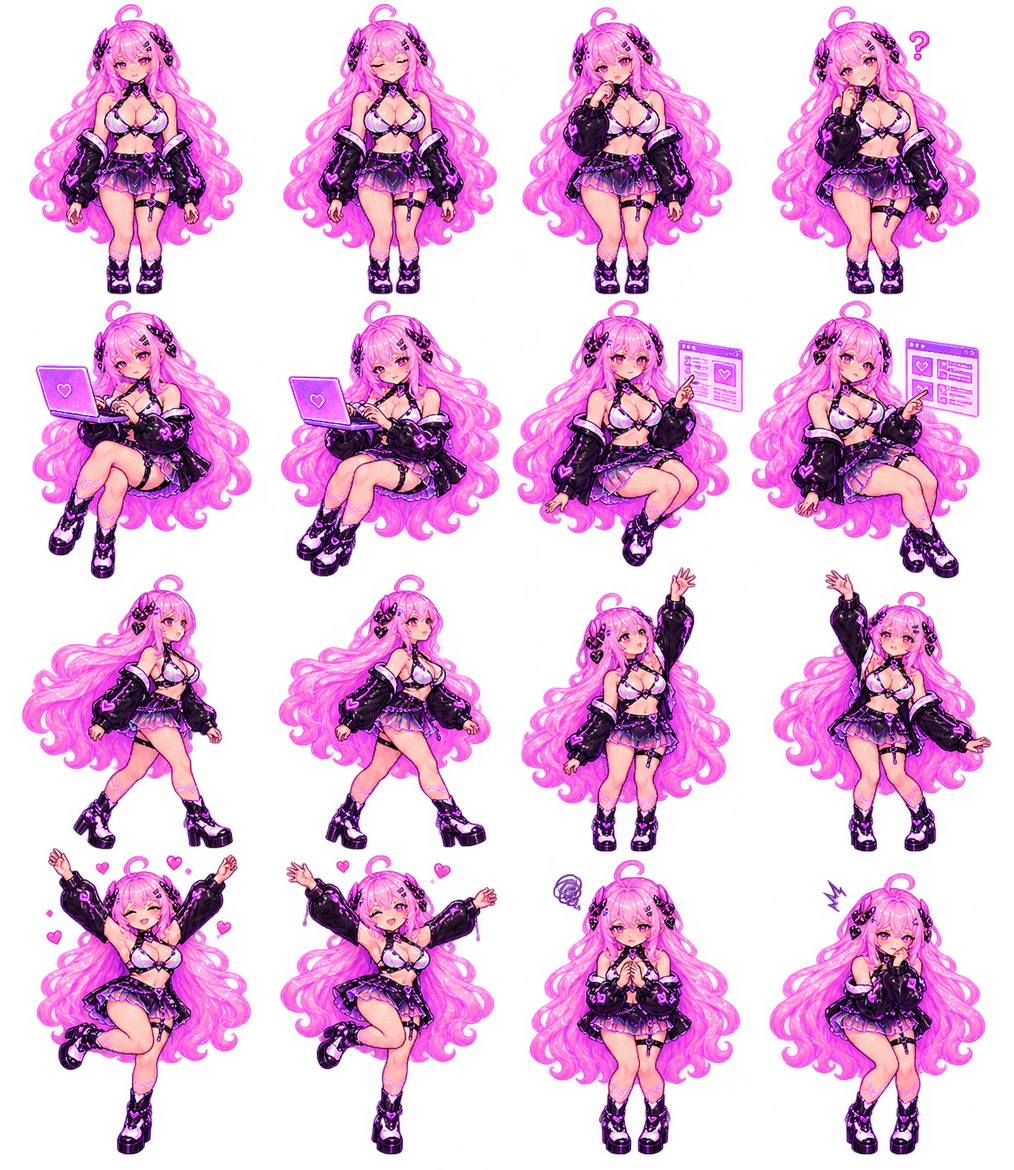
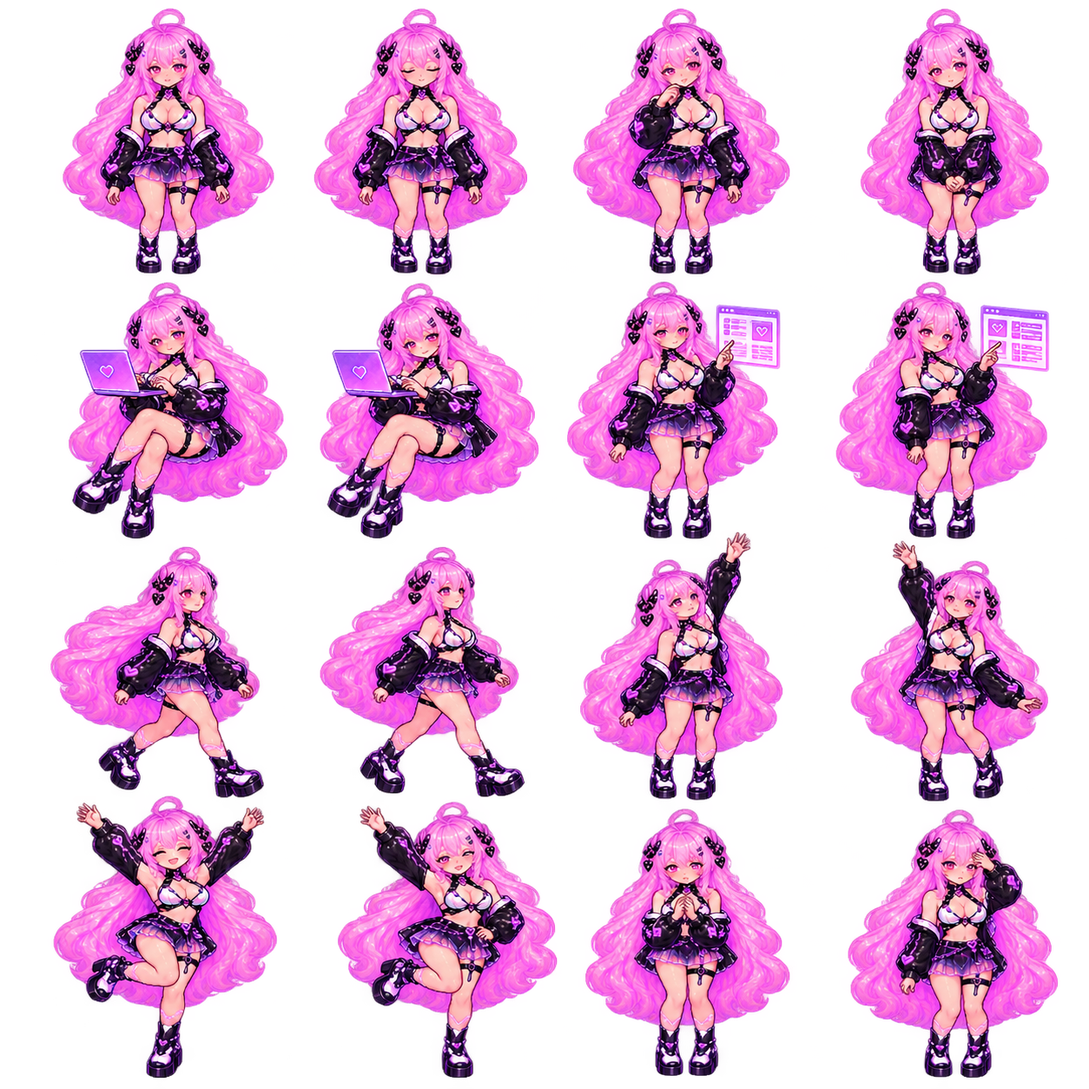
Correct sideways file pointing and isolate animation poses

diff --git a/scripts/animation-audit.js b/scripts/animation-audit.js
@@ -1,0 +1,51 @@
+// Real canvas audit: all activity frames, clean alpha, and both pointing directions.
+const {app,BrowserWindow}=require('electron'),fs=require('node:fs/promises'),path=require('node:path'),assert=require('node:assert/strict');
+app.disableHardwareAcceleration();
+const source=process.env.AURORA_SMOKE_SOURCE||path.resolve('src'),output=path.resolve('test-output',`animation-audit-${Date.now()}`);
+app.whenReady().then(async()=>{
+  const win=new BrowserWindow({show:false,width:1100,height:1000,webPreferences:{contextIsolation:true,nodeIntegration:false,sandbox:true,backgroundThrottling:false}});
+  try{
+    await fs.mkdir(output,{recursive:true});await win.loadFile(path.join(source,'animation-preview.html'));
+    const errors=[];win.webContents.on('console-message',(_event,level,message)=>{if(level>=3)errors.push(message);});
+    const reports=[];
+    await win.webContents.executeJavaScript(`window.pointingContact=document.createElement('canvas');pointingContact.width=800;pointingContact.height=1280;const contactCtx=pointingContact.getContext('2d');contactCtx.fillStyle='#17131f';contactCtx.fillRect(0,0,800,1280);`);
+    for(const id of ['classic','cyber','dark','cozy']){
+      const audit=await win.webContents.executeJavaScript(`(async()=>{
+        const skin=AuroraAppearances.list.find(s=>s.id===${JSON.stringify(id)}),load=src=>new Promise((resolve,reject)=>{const img=new Image();img.onload=()=>resolve(img);img.onerror=()=>reject(Error('Missing '+src));img.src=src;});
+        const atlas=await load(skin.atlas||'assets/aurora/activity-atlas.png'),point=await load(skin.atlas?'assets/aurora/skins/'+skin.id+'-pointing.png':'assets/aurora/pointing.png');
+        const canvas=document.createElement('canvas');canvas.width=1040;canvas.height=skin.atlas?1500:1800;const ctx=canvas.getContext('2d');ctx.fillStyle='#17131f';ctx.fillRect(0,0,1040,canvas.height);ctx.imageSmoothingEnabled=false;
+        const frames=[],walkFrames=[];let removed=0;
+        for(let index=0;index<16;index++){
+          const frame=AuroraSpriteFrames.prepareFrame(atlas,skin.atlas?AuroraAppearances.frameRect(skin,index,atlas.naturalWidth,atlas.naturalHeight):auroraFrameRects[index===12?13:index]);
+          const [x,y,w,h]=frame.bounds,left=index%4*260,top=Math.floor(index/4)*300,scale=Math.min(236/w,258/h);ctx.drawImage(frame.canvas,x,y,w,h,left+(260-w*scale)/2,top+270-h*scale,w*scale,h*scale);
+          ctx.fillStyle='#e9c8ff';ctx.font='14px Segoe UI';ctx.fillText(skin.name+' · frame '+index,left+18,top+290);removed+=frame.removed;frames.push({index,bounds:frame.bounds,removed:frame.removed});
+        }
+        const pointing=AuroraSpriteFrames.preparePointing(point),layout=AuroraSpriteFrames.pointingLayout(pointing.bounds,pointing.finger,280,280),[px,py,pw,ph]=pointing.bounds;
+        for(const [index,leftward] of [false,true].entries()){
+          ctx.save();ctx.translate(index*280,1200);if(leftward){ctx.translate(280,0);ctx.scale(-1,1);}ctx.drawImage(pointing.canvas,px,py,pw,ph,layout.x,layout.y,layout.width,layout.height);ctx.restore();ctx.fillStyle='#e9c8ff';ctx.fillText(leftward?'Pointing left':'Pointing right',index*280+18,1490);
+        }
+        if(!skin.atlas){const walk=await load('assets/aurora/walk-cycle.png');for(let index=0;index<4;index++){const frame=AuroraSpriteFrames.prepareFrame(walk,auroraWalkRects[index]),[x,y,w,h]=frame.bounds,left=index*260,scale=Math.min(236/w,258/h);ctx.drawImage(frame.canvas,x,y,w,h,left+(260-w*scale)/2,1770-h*scale,w*scale,h*scale);ctx.fillStyle='#e9c8ff';ctx.fillText('Archived walk '+index,left+18,1790);walkFrames.push({index,bounds:frame.bounds,removed:frame.removed});removed+=frame.removed;}}
+        return {image:canvas.toDataURL('image/png'),frames,walkFrames,removed,pointBounds:pointing.bounds,finger:pointing.finger,layout};
+      })()`);
+      assert.equal(audit.frames.length,16);assert.ok(audit.frames.every(f=>f.bounds[2]>0&&f.bounds[3]>0));
+      await fs.writeFile(path.join(output,id+'.png'),Buffer.from(audit.image.split(',')[1],'base64'));delete audit.image;
+      // Exercise the actual shared pet renderer rather than just the audit canvas.
+      await win.webContents.executeJavaScript(`document.querySelectorAll('.pet-host').forEach(h=>h.dataset.appearance=${JSON.stringify(id)});`);
+      const host="document.querySelector('[data-state=pointing]')";
+      await win.webContents.executeJavaScript(`${host}.dataset.facing='right'`);
+      let anchors;
+      for(let attempt=0;attempt<100;attempt++){await new Promise(r=>setTimeout(r,30));anchors=await win.webContents.executeJavaScript(`({x:Number(${host}.dataset.pointX),y:Number(${host}.dataset.pointY),appearance:${host}.dataset.pointAppearance,width:${host}.clientWidth,height:${host}.clientHeight})`);if(anchors.appearance===id&&Math.abs(anchors.x-anchors.width*216/280)<.1)break;}
+      assert.equal(anchors.appearance,id);
+      assert.ok(Math.abs(anchors.x-anchors.width*216/280)<.1);assert.ok(Math.abs(anchors.y-anchors.height*82/280)<.1);
+      const row=reports.length;
+      await win.webContents.executeJavaScript(`(()=>{const ctx=pointingContact.getContext('2d'),top=${row}*320;ctx.imageSmoothingEnabled=false;ctx.drawImage(${host}.querySelector('canvas'),20,top+25,280,280);ctx.strokeStyle='#f4a9dc';ctx.strokeRect(244,top+95,100,24);ctx.fillStyle='#eee0f3';ctx.font='13px Segoe UI';ctx.fillText('Selected file',250,top+112);ctx.fillText(${JSON.stringify(id+' · pointing right')},20,top+18);})()`);
+      await win.webContents.executeJavaScript(`${host}.dataset.facing='left'`);let leftX;
+      for(let attempt=0;attempt<100;attempt++){await new Promise(r=>setTimeout(r,30));leftX=await win.webContents.executeJavaScript(`Number(${host}.dataset.pointX)`);if(Math.abs(leftX-anchors.width*64/280)<.1)break;}
+      assert.ok(Math.abs(leftX-anchors.width*64/280)<.1);
+      await win.webContents.executeJavaScript(`(()=>{const ctx=pointingContact.getContext('2d'),top=${row}*320;ctx.drawImage(${host}.querySelector('canvas'),440,top+25,280,280);ctx.strokeStyle='#f4a9dc';ctx.strokeRect(396,top+95,100,24);ctx.fillStyle='#eee0f3';ctx.font='13px Segoe UI';ctx.fillText('Selected file',402,top+112);ctx.fillText(${JSON.stringify(id+' · pointing left')},440,top+18);})()`);
+      reports.push({id,...audit,rendererAnchors:true});
+    }
+    const contact=await win.webContents.executeJavaScript('pointingContact.toDataURL("image/png")');await fs.writeFile(path.join(output,'pointing-check.png'),Buffer.from(contact.split(',')[1],'base64'));
+    assert.deepEqual(errors,[]);await fs.writeFile(path.join(output,'result.json'),JSON.stringify({passed:true,reports},null,2));console.log('Animation audit passed: '+output);app.exit(0);
+  }catch(error){console.error(error);app.exit(1);}
+});

diff --git a/src/pet-art.js b/src/pet-art.js
@@ -35,15 +35,16 @@ document.querySelectorAll('.pet-host').forEach(host => {
   const artwork=document.createElement('div');artwork.className='aurora-art';artwork.append(reference,sprite);
   host.replaceChildren(artwork, stars, bubble,portal);
   let dirty = true;
-  const skins=new Map();let selectedSkin=null,skinImage=null;
+  const skins=new Map();let selectedSkin=null,skinImage=null,skinRecord=null;
   const selectSkin=()=>{
+    delete host.dataset.pointX;delete host.dataset.pointY;delete host.dataset.pointAppearance;
     selectedSkin=window.AuroraAppearances?.list.find(item=>item.id===host.dataset.appearance&&item.atlas)||null;
     host.classList.toggle('community-art',!!selectedSkin);
-    if(!selectedSkin){skinImage=null;return;}
+    if(!selectedSkin){skinImage=null;skinRecord=null;return;}
     if(!skins.has(selectedSkin.id)){
-      const image=new Image();image.onload=()=>{dirty=true;};image.onerror=()=>{host.classList.add('skin-unavailable');};image.src=selectedSkin.atlas;skins.set(selectedSkin.id,image);
+      const image=new Image(),point=new Image(),record={image,point,frames:[]};image.onload=point.onload=()=>{dirty=true;};image.onerror=point.onerror=()=>{host.classList.add('skin-unavailable');};image.src=selectedSkin.atlas;point.src=`assets/aurora/skins/${selectedSkin.id}-pointing.png`;skins.set(selectedSkin.id,record);
     }
-    skinImage=skins.get(selectedSkin.id);host.classList.remove('skin-unavailable');
+    skinRecord=skins.get(selectedSkin.id);skinImage=skinRecord.image;host.classList.remove('skin-unavailable');
   };
   new MutationObserver(()=>{selectSkin();dirty=true;}).observe(host,{attributes:true,attributeFilter:['data-appearance']});selectSkin();
   const atlas = new Image();
@@ -57,6 +58,7 @@ document.querySelectorAll('.pet-host').forEach(host => {
   pointImage.onload = () => { host.classList.add('has-point'); dirty = true; };
   pointImage.src = 'assets/aurora/pointing.png';
   let previous = '', previousFacing = '', frame = 0, lastTick = 0;
+  const originalFrames=[],walkFrames=[];let originalPoint;
   const resize = () => {
     const ratio = devicePixelRatio || 1;
     sprite.width = Math.round(host.clientWidth * ratio); sprite.height = Math.round(host.clientHeight * ratio);
@@ -64,27 +66,37 @@ document.querySelectorAll('.pet-host').forEach(host => {
   };
   new ResizeObserver(resize).observe(host);
   const draw = (index,state) => {
+    const ctx=sprite.getContext('2d');ctx.clearRect(0,0,sprite.width,sprite.height);ctx.imageSmoothingEnabled=false;
+    if(state==='pointing'){
+      const image=skinRecord?.point||pointImage;if(!image.complete||!image.naturalWidth||!sprite.width)return;
+      const prepared=skinRecord?(skinRecord.preparedPoint ||= AuroraSpriteFrames.preparePointing(image)):(originalPoint ||= AuroraSpriteFrames.preparePointing(image));
+      const [x,y,w,h]=prepared.bounds,layout=AuroraSpriteFrames.pointingLayout(prepared.bounds,prepared.finger,sprite.width,sprite.height);
+      ctx.save();if(host.dataset.facing==='left'){ctx.translate(sprite.width,0);ctx.scale(-1,1);}
+      ctx.drawImage(prepared.canvas,x,y,w,h,layout.x,layout.y,layout.width,layout.height);ctx.restore();dirty=false;host.dataset.pointX=String((host.dataset.facing==='left'?sprite.width-layout.anchor.x:layout.anchor.x)/(devicePixelRatio||1));host.dataset.pointY=String(layout.anchor.y/(devicePixelRatio||1));host.dataset.pointAppearance=selectedSkin?.id||'classic';return;
+    }
     if(selectedSkin){
-      const ctx=sprite.getContext('2d');ctx.clearRect(0,0,sprite.width,sprite.height);
       if(!skinImage?.complete||!skinImage.naturalWidth||!sprite.width)return;
-      const pose=state==='walking'?8+index%2:state==='pointing'?10:index;
-      const [x,y,w,h]=window.AuroraAppearances.frameRect(selectedSkin,pose,skinImage.naturalWidth,skinImage.naturalHeight);
-      const scale=Math.min(sprite.width*.96/w,sprite.height*.82/h),width=w*scale,height=h*scale;
+      const pose=state==='walking'?8+index%2:index;
+      const getFrame=i=>skinRecord.frames[i] ||= AuroraSpriteFrames.prepareFrame(skinImage,window.AuroraAppearances.frameRect(selectedSkin,i,skinImage.naturalWidth,skinImage.naturalHeight));
+      const prepared=getFrame(pose),[x,y,w,h]=prepared.bounds;
+      const scale=Math.min(sprite.width*.94/w,sprite.height*.82/h,sprite.height*.76/getFrame(0).bounds[3]),width=w*scale,height=h*scale;
       ctx.imageSmoothingEnabled=false;ctx.save();
       if((state==='walking'||state==='pointing')&&host.dataset.facing==='left'){ctx.translate(sprite.width,0);ctx.scale(-1,1);}
-      ctx.drawImage(skinImage,x,y,w,h,(sprite.width-width)/2,sprite.height*.9-height,width,height);ctx.restore();dirty=false;return;
+      ctx.drawImage(prepared.canvas,x,y,w,h,(sprite.width-width)/2,sprite.height*.88-height,width,height);ctx.restore();dirty=false;return;
     }
     const walking=state==='walking',pointing=state==='pointing',image=pointing?pointImage:walking?walkAtlas:atlas;
     if (!image.complete || !image.naturalWidth || !sprite.width) return;
-    const [x,y,w,h] = pointing ? [224,8,890,1234] : (walking?auroraWalkRects:auroraFrameRects)[index];
-    const ctx = sprite.getContext('2d');
-    ctx.clearRect(0,0,sprite.width,sprite.height); ctx.imageSmoothingEnabled = false;
+    // The original atlas's first cheer has an extra arm; render its clean pair.
+    if(!walking&&index===12)index=13;
+    const frames=walking?walkFrames:originalFrames;
+    const prepared=frames[index] ||= AuroraSpriteFrames.prepareFrame(image,(walking?auroraWalkRects:auroraFrameRects)[index]);
+    const [x,y,w,h]=prepared.bounds;
     const scale = sprite.height * .76 / (pointing?1234:walking?596:296);
-    const padding = 2;
+    const padding = 0;
     const width = (w + padding * 2) * scale, height = (h + padding * 2) * scale;
     ctx.save();
     if((walking||pointing)&&host.dataset.facing==='left'){ctx.translate(sprite.width,0);ctx.scale(-1,1);}
-    ctx.drawImage(image, x-padding, y-padding, w+padding*2, h+padding*2,
+    ctx.drawImage(prepared.canvas, x-padding, y-padding, w+padding*2, h+padding*2,
       (sprite.width-width)/2, sprite.height*.88-height, width, height);
     ctx.restore();
     dirty = false;

diff --git a/src/notch.html b/src/notch.html
@@ -1,1 +1,1 @@
-<!doctype html><html lang="en"><head><meta charset="UTF-8"><meta name="viewport" content="width=device-width,initial-scale=1"><meta http-equiv="Content-Security-Policy" content="default-src 'self'; script-src 'self'; style-src 'self'; connect-src 'none'; object-src 'none'; base-uri 'none'"><title>Aurora voice notch</title><link rel="stylesheet" href="pet.css"><link rel="stylesheet" href="notch.css"></head><body><section id="notch" data-expanded="false"><div id="pet-host" class="pet-host" data-state="idle"></div><div class="content"><header><span class="name">Aurora <span>♥ heartflow</span></span><div class="controls"><button id="open" title="Open Aurora" aria-label="Open Aurora">↗</button><button id="finish" title="Finish recording and send" aria-label="Finish recording and send" hidden>✓</button><button id="stop" title="Stop task" aria-label="Stop task">■</button><button id="mic" title="Turn microphone off" aria-label="Turn microphone off">◉</button></div></header><div class="status"><span id="dot"></span><span id="status">Microphone off</span><span class="wave" aria-hidden="true">▂ ▅ ▃ ▆ ▂</span></div><div class="conversation"><div id="reply" class="reply" aria-live="polite"></div><div id="choices" class="choices" hidden></div><div id="heard" class="heard"></div><pre id="proposal" hidden></pre><div id="approval-buttons" hidden><button id="deny">Deny action</button><button id="approve">Approve once</button></div><div id="error" role="alert"></div></div><footer id="hint">Say “Aurora” to wake me</footer></div></section><script src="appearances.js"></script><script src="pet-art.js"></script><script src="notch.js"></script></body></html>
+<!doctype html><html lang="en"><head><meta charset="UTF-8"><meta name="viewport" content="width=device-width,initial-scale=1"><meta http-equiv="Content-Security-Policy" content="default-src 'self'; script-src 'self'; style-src 'self'; connect-src 'none'; object-src 'none'; base-uri 'none'"><title>Aurora voice notch</title><link rel="stylesheet" href="pet.css"><link rel="stylesheet" href="notch.css"></head><body><section id="notch" data-expanded="false"><div id="pet-host" class="pet-host" data-state="idle"></div><div class="content"><header><span class="name">Aurora <span>♥ heartflow</span></span><div class="controls"><button id="open" title="Open Aurora" aria-label="Open Aurora">↗</button><button id="finish" title="Finish recording and send" aria-label="Finish recording and send" hidden>✓</button><button id="stop" title="Stop task" aria-label="Stop task">■</button><button id="mic" title="Turn microphone off" aria-label="Turn microphone off">◉</button></div></header><div class="status"><span id="dot"></span><span id="status">Microphone off</span><span class="wave" aria-hidden="true">▂ ▅ ▃ ▆ ▂</span></div><div class="conversation"><div id="reply" class="reply" aria-live="polite"></div><div id="choices" class="choices" hidden></div><div id="heard" class="heard"></div><pre id="proposal" hidden></pre><div id="approval-buttons" hidden><button id="deny">Deny action</button><button id="approve">Approve once</button></div><div id="error" role="alert"></div></div><footer id="hint">Say “Aurora” to wake me</footer></div></section><script src="appearances.js"></script><script src="sprite-frames.js"></script><script src="pet-art.js"></script><script src="notch.js"></script></body></html>

diff --git a/src/sprite-frames.js b/src/sprite-frames.js
@@ -1,0 +1,39 @@
+// Isolate a pose at render time. Atlas pixels stay untouched on disk.
+function isolatePixels(data,width,height) {
+  const labels=new Int32Array(width*height),queue=new Int32Array(width*height),parts=[];
+  for(let p=0;p<labels.length;p++){
+    if(labels[p]||data[p*4+3]<64)continue;
+    const id=parts.length+1;let head=0,tail=0,minX=width,minY=height,maxX=0,maxY=0;queue[tail++]=p;labels[p]=id;
+    while(head<tail){const at=queue[head++],x=at%width,y=Math.floor(at/width);minX=Math.min(minX,x);maxX=Math.max(maxX,x);minY=Math.min(minY,y);maxY=Math.max(maxY,y);
+      for(let dy=-1;dy<=1;dy++)for(let dx=-1;dx<=1;dx++){const nx=x+dx,ny=y+dy;if(nx<0||ny<0||nx>=width||ny>=height)continue;const next=ny*width+nx;if(!labels[next]&&data[next*4+3]>=64){labels[next]=id;queue[tail++]=next;}}
+    }
+    parts.push({id,size:tail,minX,minY,maxX,maxY,edge:minX===0||minY===0||maxX===width-1||maxY===height-1});
+  }
+  const largest=parts.reduce((best,part)=>!best||part.size>best.size?part:best,null);
+  if(!largest)return {pixels:new Uint8ClampedArray(data.length),bounds:[0,0,width,height],removed:0};
+  // Retain substantial interior props, such as a floating browser panel.
+  const kept=parts.filter(part=>part===largest||(!part.edge&&part.size>=Math.max(32,largest.size*.01))),ids=new Set(kept.map(part=>part.id));
+  const pixels=new Uint8ClampedArray(data.length);let removed=0;
+  for(let p=0;p<labels.length;p++){if(ids.has(labels[p]))pixels.set(data.subarray(p*4,p*4+4),p*4);else if(data[p*4+3])removed++;}
+  const x=Math.min(...kept.map(p=>p.minX)),y=Math.min(...kept.map(p=>p.minY)),right=Math.max(...kept.map(p=>p.maxX)),bottom=Math.max(...kept.map(p=>p.maxY));
+  return {pixels,bounds:[x,y,right-x+1,bottom-y+1],removed};
+}
+function prepareFrame(image,rect) {
+  const [x,y,w,h]=rect.map(Math.round),canvas=document.createElement('canvas');canvas.width=w;canvas.height=h;
+  const ctx=canvas.getContext('2d',{willReadFrequently:true});ctx.imageSmoothingEnabled=false;ctx.drawImage(image,x,y,w,h,0,0,w,h);
+  const data=ctx.getImageData(0,0,w,h),isolated=isolatePixels(data.data,w,h);data.data.set(isolated.pixels);ctx.putImageData(data,0,0);
+  return {canvas,bounds:isolated.bounds,removed:isolated.removed};
+}
+function pointingLayout(bounds,finger,width,height) {
+  const [x,y,w,h]=bounds,anchor={x:width*216/280,y:height*82/280};
+  const scale=Math.min((height*.88-anchor.y)/(y+h-finger.y),anchor.x/(finger.x-x),(width-anchor.x)/(x+w-finger.x||1));
+  return {x:anchor.x-(finger.x-x)*scale,y:anchor.y-(finger.y-y)*scale,width:w*scale,height:h*scale,anchor};
+}
+function preparePointing(image){
+  const frame=prepareFrame(image,[0,0,image.naturalWidth,image.naturalHeight]),[x,y,w,h]=frame.bounds;
+  const ctx=frame.canvas.getContext('2d'),strip=ctx.getImageData(x+w-3,y,3,h).data;let count=0,total=0;
+  for(let row=0;row<h;row++)for(let col=0;col<3;col++){if(strip[(row*3+col)*4+3]>=64){total+=row;count++;}}
+  frame.finger={x:x+w-1,y:y+(count?total/count:h*.24)};return frame;
+}
+const api={isolatePixels,prepareFrame,preparePointing,pointingLayout};
+if(typeof module!=='undefined')module.exports=api;else window.AuroraSpriteFrames=api;

diff --git a/src/index.html b/src/index.html
@@ -30,6 +30,6 @@
   <div id="toast" role="alert" hidden></div>
   <dialog id="project-dialog"><form id="project-form"><div class="dialog-heading"><h2>A space for your ideas</h2><button id="project-close" type="button" class="icon-button" aria-label="Close project dialog">×</button></div><p>Group sessions in a project. Choose a workspace afterward to give Aurora Code a folder to work in.</p><label for="project-name">Project name</label><input id="project-name" required maxlength="80" autocomplete="off" placeholder="My next project"><div class="dialog-footer"><button type="submit" class="primary">Create project</button></div></form></dialog>
   <dialog id="delete-session-dialog"><h2>Delete this session?</h2><p id="delete-session-description"></p><p>This removes the conversation history from Aurora. Project folders and files stay on your computer.</p><div class="dialog-footer"><button id="delete-session-cancel" class="secondary">Keep session</button><button id="delete-session-confirm" class="primary">Delete session</button></div></dialog>
-  <script src="vendor/marked.js"></script><script src="vendor/purify.js"></script><script src="vendor/prism.js"></script><script src="vendor/prism-markup.js"></script><script src="vendor/prism-clike.js"></script><script src="vendor/prism-javascript.js"></script><script src="vendor/prism-powershell.js"></script><script src="vendor/prism-python.js"></script><script src="vendor/prism-bash.js"></script><script src="vendor/prism-json.js"></script><script src="markdown.js"></script><script src="appearances.js"></script><script src="pet-art.js"></script><script src="renderer.js"></script><script src="voice-pcm.js"></script><script src="voice-ui.js"></script>
+  <script src="vendor/marked.js"></script><script src="vendor/purify.js"></script><script src="vendor/prism.js"></script><script src="vendor/prism-markup.js"></script><script src="vendor/prism-clike.js"></script><script src="vendor/prism-javascript.js"></script><script src="vendor/prism-powershell.js"></script><script src="vendor/prism-python.js"></script><script src="vendor/prism-bash.js"></script><script src="vendor/prism-json.js"></script><script src="markdown.js"></script><script src="appearances.js"></script><script src="sprite-frames.js"></script><script src="pet-art.js"></script><script src="renderer.js"></script><script src="voice-pcm.js"></script><script src="voice-ui.js"></script>
 </body></html>
 

diff --git a/src/appearances.js b/src/appearances.js
@@ -3,14 +3,19 @@ const list = [
   {id:'classic',name:'Classic',description:'Aurora’s original pink and gold',filter:'none'},
   {id:'moonlight',name:'Moonlight',description:'Cool blue and violet',filter:'hue-rotate(315deg) saturate(.8)'},
   {id:'sunrise',name:'Sunrise',description:'Warm peach and rose',filter:'hue-rotate(55deg) saturate(.8)'},
-  {id:'cyber',name:'Cyber',creator:'Jaymie',description:'Neon hearts and futuristic black armour',filter:'none',atlas:'assets/aurora/skins/cyber.png',rows:[0,.264,.492,.737,1]},
-  {id:'dark',name:'Dark',creator:'Jaymie',description:'Lavender hair and gothic lace',filter:'none',atlas:'assets/aurora/skins/dark.png',rows:[0,.257,.509,.744,1]},
-  {id:'cozy',name:'Cozy',creator:'Jaymie',description:'Pink hearts and an oversized jacket',filter:'none',atlas:'assets/aurora/skins/cozy.png',rows:[0,.256,.501,.733,1]}
+  {id:'cyber',name:'Cyber',creator:'Jaymie',description:'Neon hearts and futuristic black armour',filter:'none',atlas:'assets/aurora/skins/cyber.png',rows:[0,.25,.5,.75,1]},
+  {id:'dark',name:'Dark',creator:'Jaymie',description:'Lavender hair and gothic lace',filter:'none',atlas:'assets/aurora/skins/dark.png',rows:[0,.25,.5,.75,1]},
+  {id:'cozy',name:'Cozy',creator:'Jaymie',description:'Pink hearts and an oversized jacket',filter:'none',atlas:'assets/aurora/skins/cozy.png',rows:[0,.25,.5,.75,1]}
 ];
 const valid = id => list.some(item => item.id === id);
 const frameRect = (skin,index,width,height) => {
   const row=Math.floor(index/4),column=index%4;
-  return [column*width/4,skin.rows[row]*height,width/4,(skin.rows[row+1]-skin.rows[row])*height];
+  // Artists' grids are approximate. Overscan protects boots/hands; component
+  // isolation removes neighbouring fragments that enter this safety margin.
+  const cellWidth=width/4,cellHeight=(skin.rows[row+1]-skin.rows[row])*height;
+  const x=Math.max(0,column*cellWidth-cellWidth*.1),y=Math.max(0,skin.rows[row]*height-cellHeight*.1);
+  const right=Math.min(width,(column+1)*cellWidth+cellWidth*.1),bottom=Math.min(height,skin.rows[row+1]*height+cellHeight*.1);
+  return [x,y,right-x,bottom-y];
 };
 if (typeof module !== 'undefined') module.exports = {list,valid,frameRect};
 else window.AuroraAppearances = {list,valid,frameRect};

diff --git a/src/renderer.js b/src/renderer.js
@@ -126,7 +126,7 @@ function renderAppearances() {
   for (const appearance of view.appearances) {
     const button = document.createElement('button');button.className='appearance-card';button.setAttribute('aria-pressed',String(view.appearance===appearance.id));
     const image = document.createElement(appearance.atlas?'canvas':'img');image.className='skin-preview';image.dataset.appearance=appearance.id;
-    if(appearance.atlas){image.width=150;image.height=160;image.setAttribute('aria-hidden','true');const atlas=new Image();atlas.onload=()=>{const [x,y,w,h]=window.AuroraAppearances.frameRect(appearance,0,atlas.naturalWidth,atlas.naturalHeight);const ctx=image.getContext('2d');ctx.imageSmoothingEnabled=false;const scale=Math.min(image.width/w,image.height/h);ctx.drawImage(atlas,x,y,w,h,(image.width-w*scale)/2,image.height-h*scale,w*scale,h*scale);};atlas.src=appearance.atlas;}else{image.src='assets/aurora/reference.png';image.alt='';}
+    if(appearance.atlas){image.width=150;image.height=160;image.setAttribute('aria-hidden','true');const atlas=new Image();atlas.onload=()=>{const prepared=AuroraSpriteFrames.prepareFrame(atlas,window.AuroraAppearances.frameRect(appearance,0,atlas.naturalWidth,atlas.naturalHeight)),[x,y,w,h]=prepared.bounds;const ctx=image.getContext('2d');ctx.imageSmoothingEnabled=false;const scale=Math.min(image.width/w,image.height/h);ctx.drawImage(prepared.canvas,x,y,w,h,(image.width-w*scale)/2,image.height-h*scale,w*scale,h*scale);};atlas.src=appearance.atlas;}else{image.src='assets/aurora/reference.png';image.alt='';}
     const name=document.createElement('strong');name.textContent=appearance.name;const description=document.createElement('small');description.textContent=appearance.description;
     button.append(image,name);if(appearance.creator){const credit=document.createElement('small');credit.className='appearance-credit';credit.textContent=`Created by ${appearance.creator}`;button.append(credit);}button.append(description);button.onclick=action(async()=>{render(await call(window.aurora.appearance(appearance.id)));renderAppearances();$('appearance-status').textContent=`${appearance.name} selected.`;});$('appearance-cards').append(button);
   }

diff --git a/test/sprite-frames.test.js b/test/sprite-frames.test.js
@@ -1,0 +1,24 @@
+const {test}=require('node:test'),assert=require('node:assert/strict');
+const {isolatePixels,pointingLayout}=require('../src/sprite-frames');
+test('isolating poses removes corner fragments while preserving the body and substantial interior props',()=>{
+  const w=80,h=80,data=new Uint8ClampedArray(w*h*4);
+  const fill=(x,y,width,height)=>{for(let row=y;row<y+height;row++)for(let col=x;col<x+width;col++)data[(row*w+col)*4+3]=255;};
+  fill(20,20,25,50);fill(50,22,12,12);fill(0,0,15,4);fill(75,75,5,5);fill(65,5,2,2);
+  const result=isolatePixels(data,w,h);
+  assert.equal(result.pixels[(30*w+30)*4+3],255);assert.equal(result.pixels[(25*w+55)*4+3],255);
+  assert.equal(result.pixels[3],0);assert.equal(result.pixels[(78*w+78)*4+3],0);assert.equal(result.pixels[(5*w+65)*4+3],0);
+  assert.deepEqual(result.bounds,[20,20,42,50]);assert.ok(result.removed>0);
+});
+test('a body touching the crop edge is retained instead of disappearing',()=>{
+  const data=new Uint8ClampedArray(12*12*4);for(let row=0;row<12;row++)for(let col=0;col<8;col++)data[(row*12+col)*4+3]=255;
+  assert.equal(isolatePixels(data,12,12).pixels[3],255);
+});
+test('all pointing images align the fingertip to the target anchor at either DPI',()=>{
+  for(const ratio of [1,1.5,2])for(const [bounds,finger] of [[[20,10,900,1200],{x:918,y:290}],[[8,8,950,1100],{x:956,y:330}]]){
+    const width=280*ratio,height=280*ratio,layout=pointingLayout(bounds,finger,width,height),scale=layout.width/bounds[2];
+    assert.ok(Math.abs(layout.x+(finger.x-bounds[0])*scale-216*ratio)<.001);
+    assert.ok(Math.abs(layout.y+(finger.y-bounds[1])*scale-82*ratio)<.001);
+    assert.ok(Math.abs(width-layout.anchor.x-64*ratio)<.001);assert.ok(layout.x>=0&&layout.y>=0);
+    assert.ok(layout.x+layout.width<=width&&layout.y+layout.height<=height);
+  }
+});

diff --git a/src/pet.html b/src/pet.html
@@ -1,1 +1,1 @@
-<!doctype html><html lang="en"><head><meta charset="UTF-8"><meta http-equiv="Content-Security-Policy" content="default-src 'self'; script-src 'self'; style-src 'self'; connect-src 'none'; object-src 'none'; base-uri 'none'"><title>Aurora</title><link rel="stylesheet" href="pet.css"><link rel="stylesheet" href="pet-window.css"></head><body><div class="pet-host" data-state="idle"></div><div id="point-label"></div><div class="pet-controls"><button id="walk" title="Teleport somewhere">Teleport</button><button id="home" title="Return to Heartflow">Home ↙</button></div><script src="appearances.js"></script><script src="pet-art.js"></script><script src="pet-window.js"></script></body></html>
+<!doctype html><html lang="en"><head><meta charset="UTF-8"><meta http-equiv="Content-Security-Policy" content="default-src 'self'; script-src 'self'; style-src 'self'; connect-src 'none'; object-src 'none'; base-uri 'none'"><title>Aurora</title><link rel="stylesheet" href="pet.css"><link rel="stylesheet" href="pet-window.css"></head><body><div class="pet-host" data-state="idle"></div><div id="point-label"></div><div class="pet-controls"><button id="walk" title="Teleport somewhere">Teleport</button><button id="home" title="Return to Heartflow">Home ↙</button></div><script src="appearances.js"></script><script src="sprite-frames.js"></script><script src="pet-art.js"></script><script src="pet-window.js"></script></body></html>

diff --git a/src/animation-preview.html b/src/animation-preview.html
@@ -9,4 +9,4 @@
 <figure><div class="pet-host" data-state="celebrating"></div><figcaption>Celebrating <small>A job well done</small></figcaption></figure>
 <figure><div class="pet-host" data-state="error"></div><figcaption>Concerned <small>A little hiccup</small></figcaption></figure>
 <figure><div class="pet-host" data-state="pointing" data-facing="right"></div><figcaption>Pointing <small>Showing your selected file</small></figcaption></figure>
-</main><footer>Generated pose frames + CSS motion. All assets are bundled locally.</footer><script src="appearances.js"></script><script src="pet-art.js"></script><script src="animation-preview.js"></script></body></html>
+</main><footer>Generated pose frames + CSS motion. All assets are bundled locally.</footer><script src="appearances.js"></script><script src="sprite-frames.js"></script><script src="pet-art.js"></script><script src="animation-preview.js"></script></body></html>

diff --git a/src/assets/aurora/skins/cyber-repair-prompt.md b/src/assets/aurora/skins/cyber-repair-prompt.md
@@ -1,0 +1,7 @@
+# cyber repair — Created by Jaymie
+
+Built-in imagegen adaptation of Jaymie's character. The renderer isolates each full-body pose and aligns the sideways fingertip to the file target.
+
+Repair the supplied cyber character animation atlas. Preserve this adult character's exact identity, costume, palette and crisp pixel art. Create a SQUARE 4-column by 4-row sprite sheet with exactly SIXTEEN independent COMPLETE FULL-BODY poses. This is a technical game atlas: every cell occupies exactly 25% of the width and height. Each sprite MUST fit comfortably INSIDE its cell, occupying at most 75% of cell height and at most 75% of cell width. Reserve a large transparent gutter of at least 12% of each cell on ALL FOUR SIDES. No sprite, boot, hair, hand or prop may touch a cell boundary. Leave the same empty transparent space around every sprite. No clipping whatsoever: head hair boots soles and fingers MUST all be entirely visible in EVERY cell, including seated laptop poses. EXACTLY two arms and two legs per character. No stray pixels or parts from another pose. No labels, decorative icons, question marks, sparkles, ground shadows, gridlines, or background. Genuine alpha transparency. All sprites equal body scale; full-body torso leg foot proportions consistent, not chibi.
+Order left-to-right row1: idle neutral standing, same blinking, thinking hand at chin, waiting hands held calmly. Row2: coding seated with COMPLETE legs AND boots visible holding laptop, alternate coding hand on laptop same pose, browsing standing holding small browser panel with COMPLETE boots visible, alternate browser interaction same pose. Row3: walking to viewer's right left-foot forward, walking to right right-foot forward (two distinct steps), reaching up one arm full hand visible, alternate reaching with full hand visible. Row4: happy celebration both arms raised TWO ARMS ONLY, alternate celebration ONE ARM raised other hand on hip TWO ARMS ONLY, concerned hands together, concerned hand on forehead. Match the supplied character's outfit exactly. The transparent gutters are essential. Do not enlarge poses to fill the gutters.
+

diff --git a/src/assets/aurora/skins/cozy-repair-prompt.md b/src/assets/aurora/skins/cozy-repair-prompt.md
@@ -1,0 +1,7 @@
+# cozy repair — Created by Jaymie
+
+Built-in imagegen adaptation of Jaymie's character. The renderer isolates each full-body pose and aligns the sideways fingertip to the file target.
+
+Repair the supplied cozy character animation atlas. Preserve this adult character's exact identity, costume, palette and crisp pixel art. Create a SQUARE 4-column by 4-row sprite sheet with exactly SIXTEEN independent COMPLETE FULL-BODY poses. This is a technical game atlas: every cell occupies exactly 25% of the width and height. Each sprite MUST fit comfortably INSIDE its cell, occupying at most 75% of cell height and at most 75% of cell width. Reserve a large transparent gutter of at least 12% of each cell on ALL FOUR SIDES. No sprite, boot, hair, hand or prop may touch a cell boundary. Leave the same empty transparent space around every sprite. No clipping whatsoever: head hair boots soles and fingers MUST all be entirely visible in EVERY cell, including seated laptop poses. EXACTLY two arms and two legs per character. No stray pixels or parts from another pose. No labels, decorative icons, question marks, sparkles, ground shadows, gridlines, or background. Genuine alpha transparency. All sprites equal body scale; full-body torso leg foot proportions consistent, not chibi.
+Order left-to-right row1: idle neutral standing, same blinking, thinking hand at chin, waiting hands held calmly. Row2: coding seated with COMPLETE legs AND boots visible holding laptop, alternate coding hand on laptop same pose, browsing standing holding small browser panel with COMPLETE boots visible, alternate browser interaction same pose. Row3: walking to viewer's right left-foot forward, walking to right right-foot forward (two distinct steps), reaching up one arm full hand visible, alternate reaching with full hand visible. Row4: happy celebration both arms raised TWO ARMS ONLY, alternate celebration ONE ARM raised other hand on hip TWO ARMS ONLY, concerned hands together, concerned hand on forehead. Match the supplied character's outfit exactly. The transparent gutters are essential. Do not enlarge poses to fill the gutters.
+
